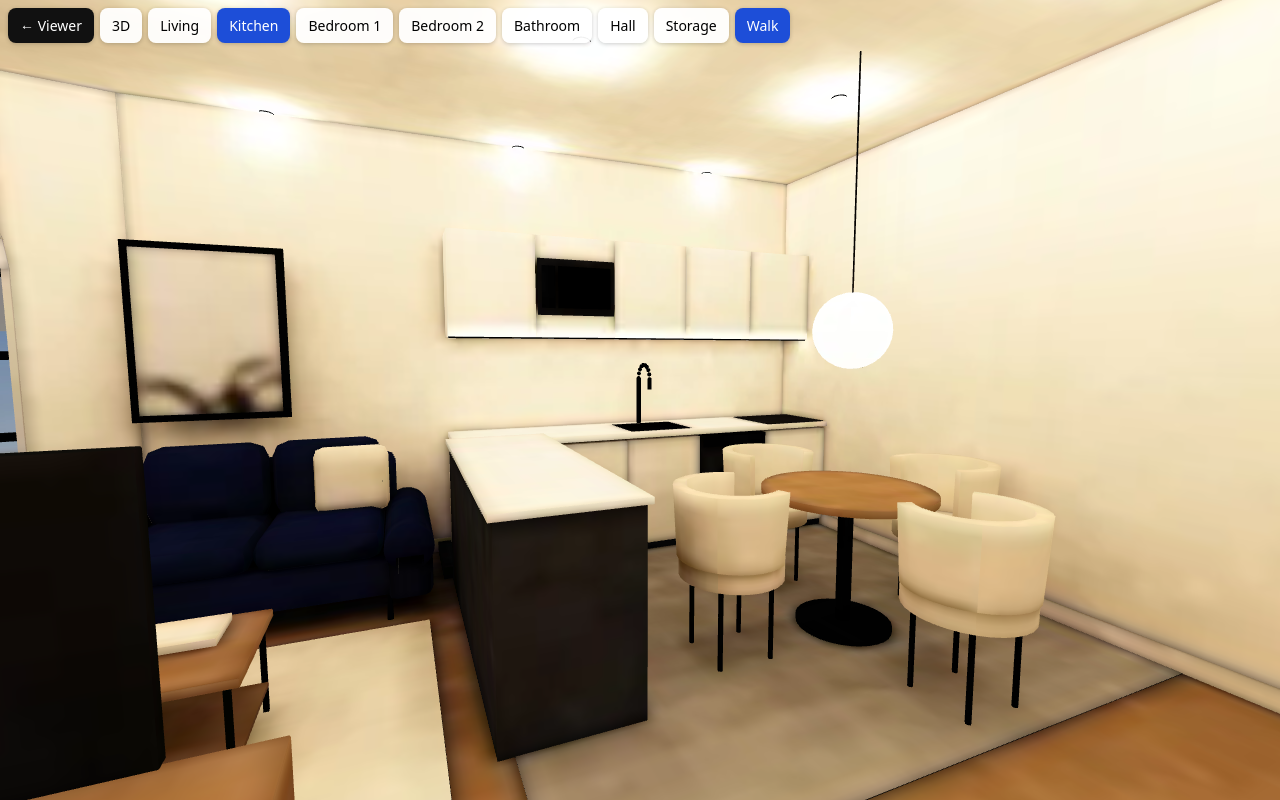
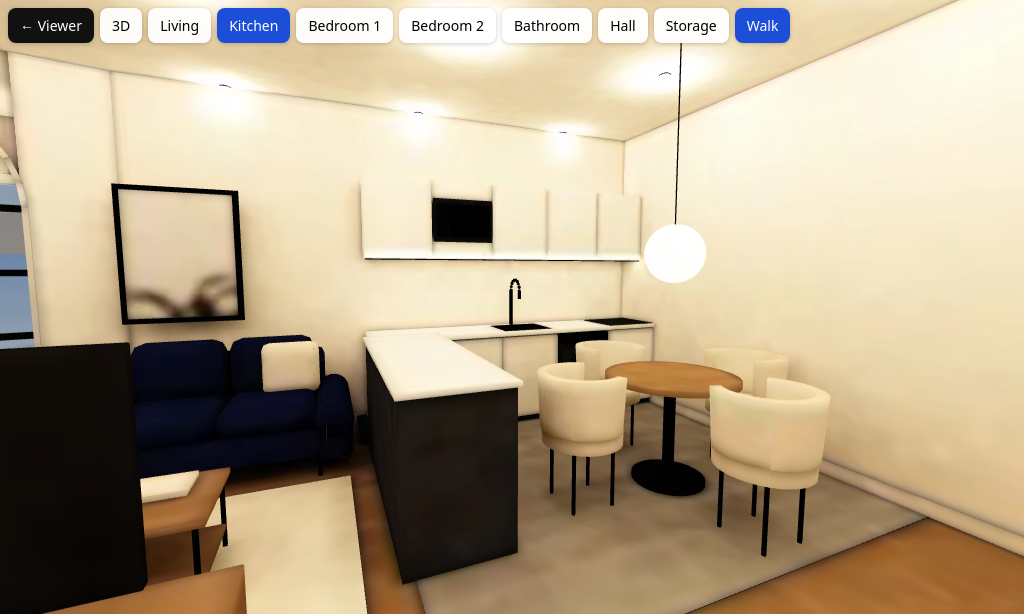
docs: interior-backup README + CHANGELOG; r10 dining verify shots
Interior bot backup branch for Colin. Includes placement-plan link,
rebuild/deploy notes, open issues. No Vercel deploy in this commit.

diff --git a/README_INTERIOR.md b/README_INTERIOR.md
@@ -1,0 +1,84 @@
+# Barclay House — Interior bot backup
+
+Backup of the Interior / Two Bed viewer work for Colin (Driven Data Dynamics).
+
+## Live site
+
+- Viewer: https://barclay-house-viewer.vercel.app  
+- Walk mode (Floorplan 3D): https://barclay-house-viewer.vercel.app/floorplan3d/2bed.html  
+- Vercel project: `barclay-house-viewer` (production)
+
+## Placement plan
+
+- Cursor Page: [Barclay House – Interior Placement Plan (Phase 1)](https://cursor.com/canvas/store-d06abf8d-aea3-48db-a461-1bb0fe77ba8e/93a50d88-b7ed-4a31-a6b5-b1b004cf5595) (private to owner)
+
+## What’s in this branch
+
+| Path | Contents |
+|------|----------|
+| `interior/` | Research (`FINDINGS.md`), `critic_log.md`, Blender build scripts (`build_twobed_v4.py` current), textures, plan extracts, DWG folder, `das_unit_areas.txt`, live bake outputs |
+| `web/` | three.js viewer (`src/app.js` → bundled `app.js`), GLBs (hero/context/twobed + mobile/`_mo` variants), `floorplan3d/` Walk mode (MIT notice under `vendor/floorplan-3d/LICENSE`), `deploy.sh`, `vercel.json` |
+| `web/shots/` | Playwright / Blender verification stills (r3–r10, dining checks) |
+| `refs/critic1/` | Critic reference images when present |
+
+**Not** the exterior bot’s large `/out/` exports or `barclay-house-archive` (that repo’s `main` drives Vercel — do not push there).
+
+## How to rebuild
+
+### 1. Blender Two Bed (baked lightmap)
+
+```bash
+# bpy in ~/bvenv (pip bpy 5.x)
+cd /workspace/barclay/interior
+~/bvenv/bin/python build_twobed_v4.py --noshots --res=3072 --bs=160 --expo=1.35
+# writes live/twobed_raw.glb + bake_atlas.png
+```
+
+Optional stills: drop `--noshots`, or use `--only v3_living` etc.
+
+### 2. Compress for web
+
+```bash
+cd /workspace/barclay/web
+npx -y @gltf-transform/cli@4 optimize ../interior/live/twobed_raw.glb twobed.glb \
+  --compress meshopt --texture-compress webp --texture-size 3072 \
+  --simplify false --join false --flatten false
+npx -y @gltf-transform/cli@4 optimize ../interior/live/twobed_raw.glb twobed_m.glb \
+  --compress meshopt --texture-compress webp --texture-size 2048 \
+  --simplify false --join false --flatten false
+# keep Ceiling_BAKED separate: --join false --flatten false is required for dollhouse lid hide
+```
+
+Re-copy exterior assets (read-only from exterior bot): `bash prep_ext.sh` (and use exterior bot’s `out/mobile/*_mobile.glb` → `hero_m` / `context_m`, then meshopt `hero_mo` / `context_mo` if regenerating).
+
+### 3. Bundle viewer
+
+```bash
+cd /workspace/barclay/web/src
+npx esbuild app.js --bundle --minify --format=iife --outfile=../app.js
+# bump ?v= in index.html
+```
+
+### 4. Vercel deploy (connector)
+
+Project `barclay-house-viewer`, **production**, files at **site root** (not under `vercel-live/`). See `web/deploy.sh` for the file list and sha/size helper.
+
+Typical set: `index.html`, `app.js`, `apt02_fp.png`, `vercel.json`, `hero.glb`, `context.glb`, `hero_m.glb`, `context_m.glb`, `hero_mo.glb`, `context_mo.glb`, `twobed.glb`, `twobed_m.glb`, `env.hdr`, `env_m.hdr`, `floorplan3d/**`, `vendor/floorplan-3d/LICENSE`.
+
+Upload large files via `upload_file` (sha1 + size), then `create_deployment` with ≤4 `$file:` args. Do **not** push this branch to a repo whose `main` is the Vercel Git integration for the live site.
+
+## Open issues (interior)
+
+- Bathroom: basin/vanity/mirror often clipped at frame edge; shower head not always in shot.
+- Bedrooms: headboards sit in front of windows; wardrobes often out of frame; ~3.2 m room depth limits “3 m pull-back”.
+- Bake: wall/ceiling seams, bright washed walls, pale art, small white dots at downlight positions.
+- Dollhouse: sky backdrop panels can stick above wall tops.
+- Layout scaled from plan image (approximate); 3.0 m ceiling **UNSOURCED**; window positions / exterior view **UNSOURCED**; furniture illustrative.
+- Storage shelving is a plain stand-in block; no balcony/garden (NOT FOUND).
+- Mobile UI: some presets / Back to exterior sit off-screen until horizontal scroll.
+- Exterior facade defects belong to the exterior bot (ground-floor colour discontinuity, missing ornament, etc.).
+
+## Licenses
+
+- three.js r160 vendored under `web/floorplan3d/vendor/three-r160/` (MIT).
+- Floorplan 3D interaction patterns: MIT, see `web/vendor/floorplan-3d/LICENSE` (wy51ai/floorplan-3d).

diff --git a/CHANGELOG.md b/CHANGELOG.md
@@ -1,0 +1,8 @@
+# CHANGELOG
+
+## 2026-11-09 — interior-backup branch
+
+- Branch `interior-backup`: Interior bot backup (Two Bed bake, viewer, Floorplan 3D Walk mode, shots, FINDINGS/critic_log).
+- Chair-fixed `twobed.glb` / `twobed_m.glb` (sha 130eda10… / 49a2ef6f…), geometric facing check `ang = a - π/2`.
+- Merged on top of `perf/viewer-speed` (`hero_mo`/`context_mo`, `vercel.json`, on-demand render); stripped `__lookAt`/`__drawcalls` debug hooks.
+- Live deploy `dpl_745x9tBVeNR97MqscvVLfiU45SrC` (app.js?v=38). See README_INTERIOR.md.
